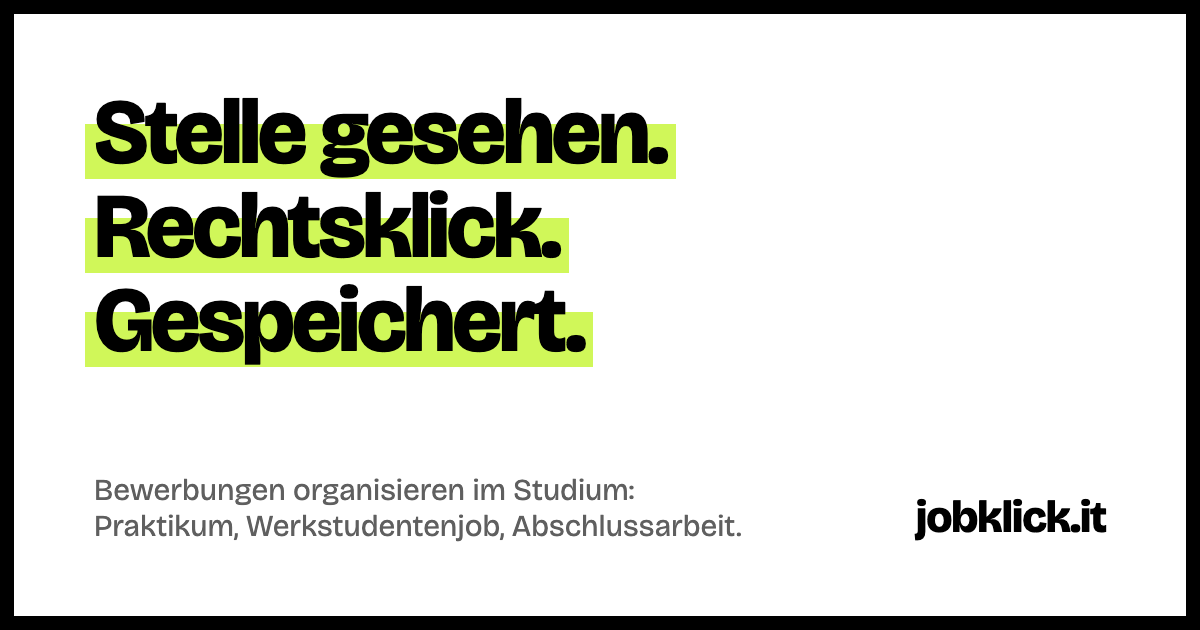
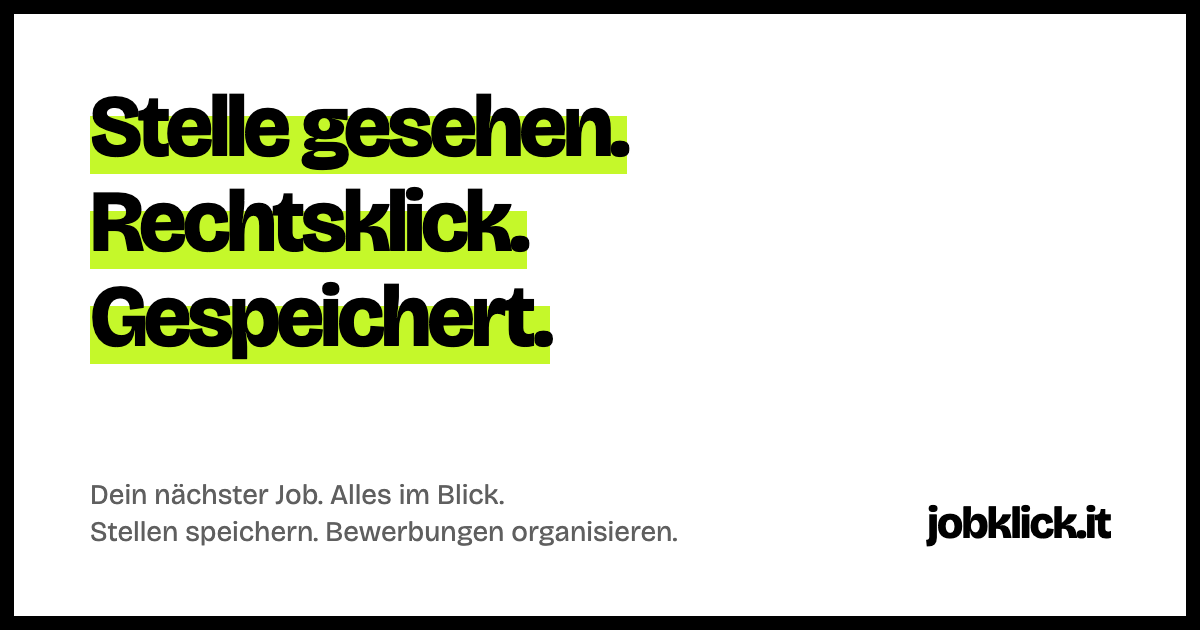
Update website

Changed region(s): [[0.0617, 0.1508, 0.5858, 0.6032], [0.0617, 0.754, 0.6167, 0.8746], [0.74, 0.7841, 0.925, 0.8746]]

diff --git a/index.html b/index.html
@@ -3,7 +3,7 @@
   <head>
     <meta charset="utf-8" />
     <meta name="viewport" content="width=device-width, initial-scale=1" />
-    <title>Bewerbungstracker für Studierende | jobklick.it</title>
+    <title>Bewerbungen einfach organisieren | jobklick.it</title>
     <link rel="icon" href="favicon.png" type="image/png" />
     
     <link rel="preconnect" href="https://fonts.googleapis.com" />
@@ -914,21 +914,21 @@ button[aria-busy="true"]::after {
     
   
     <meta name="robots" content="index, follow, max-image-preview:large" />
-    <meta name="description" content="Bewerbungen für Praktikum, Werkstudentenjob und Abschlussarbeit organisieren: Stellen per Rechtsklick speichern, Status verfolgen und Notizen sammeln." />
+    <meta name="description" content="Dein nächster Job. Alles im Blick. Mit jobklick.it speicherst du Stellen per Rechtsklick, organisierst Bewerbungen und behältst Status und Notizen im Blick." />
     <link rel="canonical" href="https://jobklick.it/" />
     <meta property="og:type" content="website" />
     <meta property="og:locale" content="de_DE" />
     <meta property="og:site_name" content="jobklick.it" />
     <meta property="og:url" content="https://jobklick.it/" />
-    <meta property="og:title" content="Bewerbungstracker für Studierende | jobklick.it" />
-    <meta property="og:description" content="Bewerbungen für Praktikum, Werkstudentenjob und Abschlussarbeit organisieren: Stellen per Rechtsklick speichern, Status verfolgen und Notizen sammeln." />
+    <meta property="og:title" content="Bewerbungen einfach organisieren | jobklick.it" />
+    <meta property="og:description" content="Dein nächster Job. Alles im Blick. Mit jobklick.it speicherst du Stellen per Rechtsklick, organisierst Bewerbungen und behältst Status und Notizen im Blick." />
     <meta property="og:image" content="https://jobklick.it/og.png" />
     <meta property="og:image:width" content="1200" />
     <meta property="og:image:height" content="630" />
     <meta property="og:image:alt" content="Stelle gesehen. Rechtsklick. Gespeichert. jobklick.it" />
     <meta name="twitter:card" content="summary_large_image" />
-    <meta name="twitter:title" content="Bewerbungstracker für Studierende | jobklick.it" />
-    <meta name="twitter:description" content="Bewerbungen für Praktikum, Werkstudentenjob und Abschlussarbeit organisieren: Stellen per Rechtsklick speichern, Status verfolgen und Notizen sammeln." />
+    <meta name="twitter:title" content="Bewerbungen einfach organisieren | jobklick.it" />
+    <meta name="twitter:description" content="Dein nächster Job. Alles im Blick. Mit jobklick.it speicherst du Stellen per Rechtsklick, organisierst Bewerbungen und behältst Status und Notizen im Blick." />
     <meta name="twitter:image" content="https://jobklick.it/og.png" />
     <meta name="twitter:image:alt" content="Stelle gesehen. Rechtsklick. Gespeichert. jobklick.it" />
     <script type="application/ld+json">
@@ -946,11 +946,11 @@ button[aria-busy="true"]::after {
         "@type": "WebApplication",
         "name": "jobklick.it",
         "url": "https://jobklick.it/",
-        "description": "Bewerbungen für Praktikum, Werkstudentenjob und Abschlussarbeit organisieren: Stellen per Rechtsklick speichern, Status verfolgen und Notizen sammeln.",
+        "description": "Dein nächster Job. Alles im Blick. Mit jobklick.it speicherst du Stellen per Rechtsklick, organisierst Bewerbungen und behältst Status und Notizen im Blick.",
         "inLanguage": "de",
         "applicationCategory": "BusinessApplication",
         "operatingSystem": "Web, Chrome, Firefox",
-        "audience": {"@type": "Audience", "audienceType": "Studierende"},
+        "audience": {"@type": "Audience", "audienceType": "Jobsuchende"},
         "offers": {"@type": "Offer", "price": "0", "priceCurrency": "EUR"}
       }
     </script>
@@ -1064,11 +1064,13 @@ button[aria-busy="true"]::after {
   <div class="wrap landing">
     <section class="hero">
       <div>
-        <p class="eyebrow">Dein Bewerbungstracker fürs Studium</p>
-        <h1><span class="marked">Stelle gesehen.</span><br /><span class="marked">Rechtsklick.</span><br /><span class="marked">Gespeichert.</span></h1>
+        <p class="eyebrow">Dein nächster Job. Alles im Blick.
+</p>
+        <h1><span class="marked">Stelle gesehen.</span><br /><span class="marked">Rechtsklick.</span><br /><span class="marked">Gespeichert.</span>
+</h1>
         <p class="lead">
-          Mit jobklick.it organisierst du deine Bewerbungen für Praktikum, Werkstudentenjob und Abschlussarbeit an einem Ort:
-          mit Status, Notizen, Anschreiben und Anfahrt.
+          Ob erster Job, nächster Karriereschritt oder Neustart: Mit jobklick.it sammelst du interessante Stellen
+          und behältst deine Bewerbungen im Blick – mit Status, Notizen und Anschreiben an einem Ort.
         </p>
         <div class="actions">
           
@@ -1079,11 +1081,11 @@ button[aria-busy="true"]::after {
 
       <figure class="ad" aria-label="Beispiel: eine Stellenanzeige, markiert und per Rechtsklick gespeichert">
         <p class="kicker">Stellenanzeige</p>
-        <p class="ad-title"><mark>Werkstudent</mark> Data Science (m/w/d)</p>
-        <p class="where">Beispiel GmbH, <mark>Tübingen</mark>, 15 Std./Woche</p>
+        <p class="ad-title"><mark>Projektmanager</mark> (m/w/d)</p>
+        <p class="where">Beispiel GmbH, <mark>Tübingen</mark>, Vollzeit oder Teilzeit</p>
         <ul>
-          <li>Du studierst Informatik, Statistik oder etwas Ähnliches</li>
-          <li>Du kennst dich mit <mark>Python</mark> und SQL aus</li>
+          <li>Du bringst Ideen voran und arbeitest gern im Team</li>
+          <li>Du hast Erfahrung im <mark>Projektmanagement</mark></li>
           <li>Start: ab sofort, <mark>remote</mark> möglich</li>
         </ul>
         <div class="menu" aria-hidden="true">
@@ -1136,7 +1138,7 @@ button[aria-busy="true"]::after {
       <h2 id="faq-heading">Fragen zum Bewerbungstracker</h2>
       <details>
         <summary>Für welche Bewerbungen eignet sich jobklick.it?</summary>
-        <p>jobklick.it richtet sich an Studierende, die ein Praktikum, einen Werkstudentenjob oder eine Abschlussarbeit suchen. Du sammelst interessante Stellen und behältst Bewerbungsstatus, Notizen und Anschreiben an einem Ort.</p>
+        <p>jobklick.it ist für alle, die ihren nächsten Job suchen – vom Berufseinstieg über den Jobwechsel bis zum Wiedereinstieg. Ob Vollzeit, Teilzeit, Ausbildung oder Praktikum: Du sammelst interessante Stellen und behältst Bewerbungsstatus, Notizen und Anschreiben an einem Ort.</p>
       </details>
       <details>
         <summary>Wie speichere ich eine Stellenanzeige?</summary>
